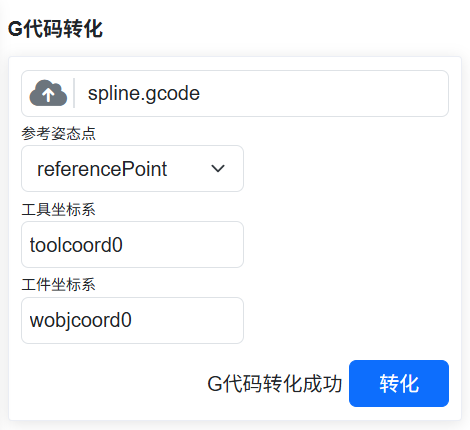
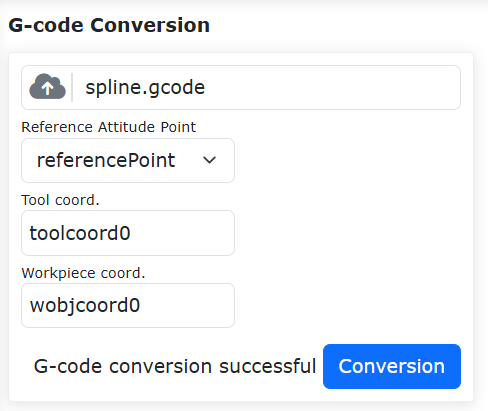
[dev-251216]删除python多余代码示例并修改G代码图片

diff --git a/source/SDKManual/PythonRobotForceControl.rst b/source/SDKManual/PythonRobotForceControl.rst
@@ -403,50 +403,6 @@ constant force control
     - ``isNoBlock``：Block flag, 0- block; 1- Non-blocking default 0- blocking；"
     "Return Value", "Error Code Success-0 Failure- errcode "
 
-constant force control code example
-+++++++++++++++++++++++++++++++++++++++++++++++++++++++++++++++++++++++++++
-.. code-block:: python
-    :linenos:
-
-    from fairino import Robot
-    # Establish a connection with the robot controller and return a robot object if the connection is successful
-    robot = Robot.RPC('192.168.58.2')
-    company = 24
-    device = 0
-    softversion = 0
-    bus = 1
-    index = 1
-    robot.FT_SetConfig(company, device, softversion, bus)
-    time.sleep(1)
-    error,[company, device, softversion, bus] = robot.FT_GetConfig()
-    print(f"FT config:{company},{device},{softversion},{bus}")
-    time.sleep(1)
-    robot.FT_Activate(0)
-    time.sleep(1)
-    robot.FT_Activate(1)
-    time.sleep(1)
-    robot.FT_SetZero(0)
-    time.sleep(1)
-    sensor_id = 1
-    select = [0, 0, 1, 0, 0, 0]
-    ft_pid = [0.0005, 0.0, 0.0, 0.0, 0.0, 0.0]
-    adj_sign = 0
-    ILC_sign = 0
-    max_dis = 100.0
-    max_ang = 0.0
-    ft = [0.0,0.0,-10.0,0.0,0.0,0.0]
-    j1 = [-11.904, -99.669, 117.473, -108.616, -91.726, 74.256]
-    j2 = [-45.615, -106.172, 124.296, -107.151, -91.282, 74.255]
-    desc_p1 = [-419.524, -13.000, 351.569, -178.118, 0.314, 3.833]
-    desc_p2 = [-321.222, 185.189, 335.520, -179.030, -1.284, -29.869]
-    epos = [0, 0, 0, 0]
-    offset_pos = [0, 0, 0, 0, 0, 0]
-    rtn = robot.MoveJ(joint_pos=j1,tool= 0,user= 0,vel= 100.0)
-    robot.FT_Control(1, sensor_id, select, ft, ft_pid, adj_sign, ILC_sign, max_dis, max_ang)
-    rtn = robot.MoveJ(joint_pos=j2,tool= 0,user= 0,vel= 100.0)
-    robot.FT_Control(0, sensor_id, select, ft, ft_pid, adj_sign, ILC_sign, max_dis, max_ang)
-    robot.CloseRPC()
-
 A code example of constant force control with damping
 ++++++++++++++++++++++++++++++++++++++++++++++++++++++++++++++++++++
 .. code-block:: python
